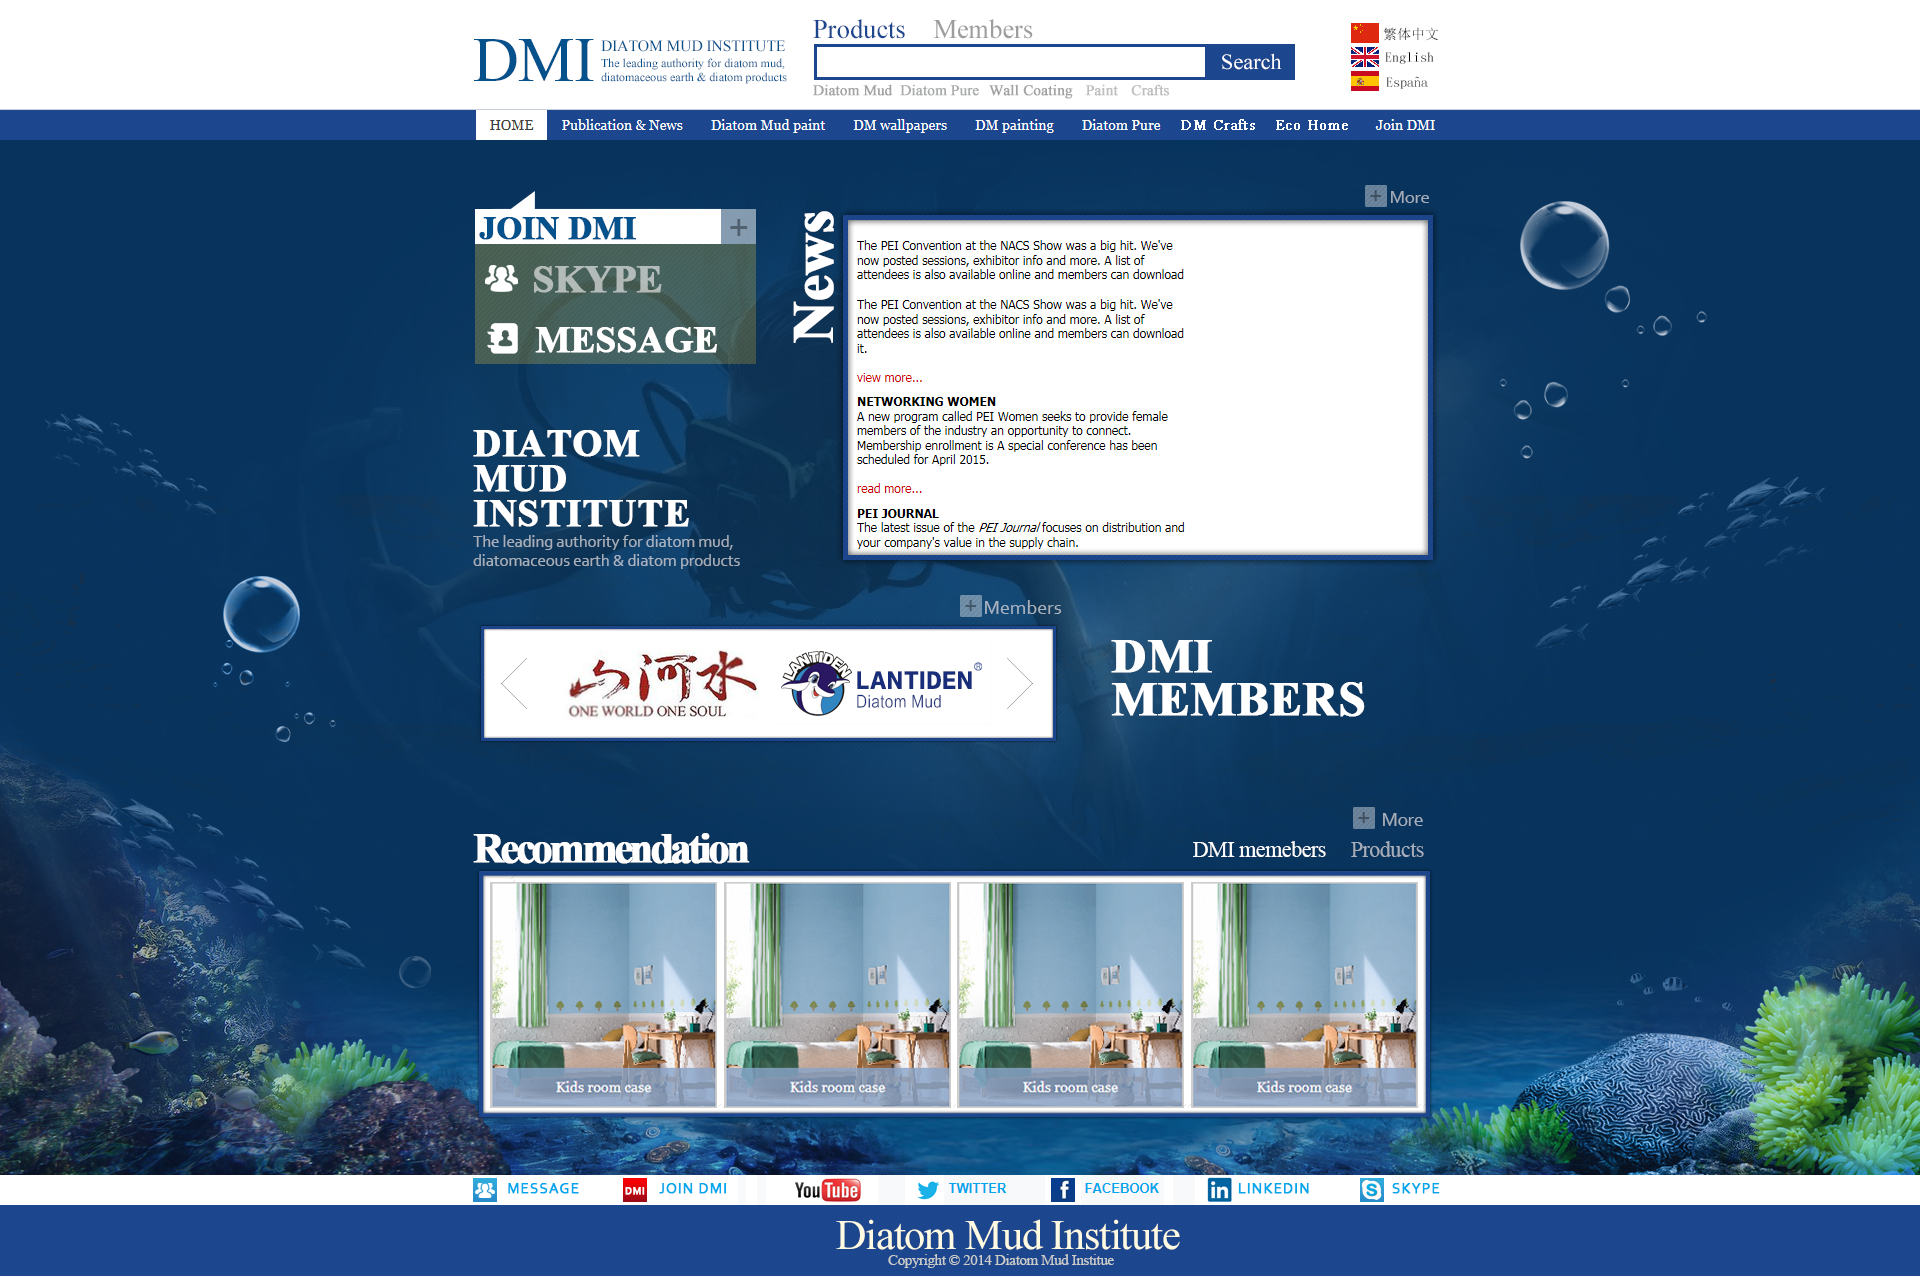
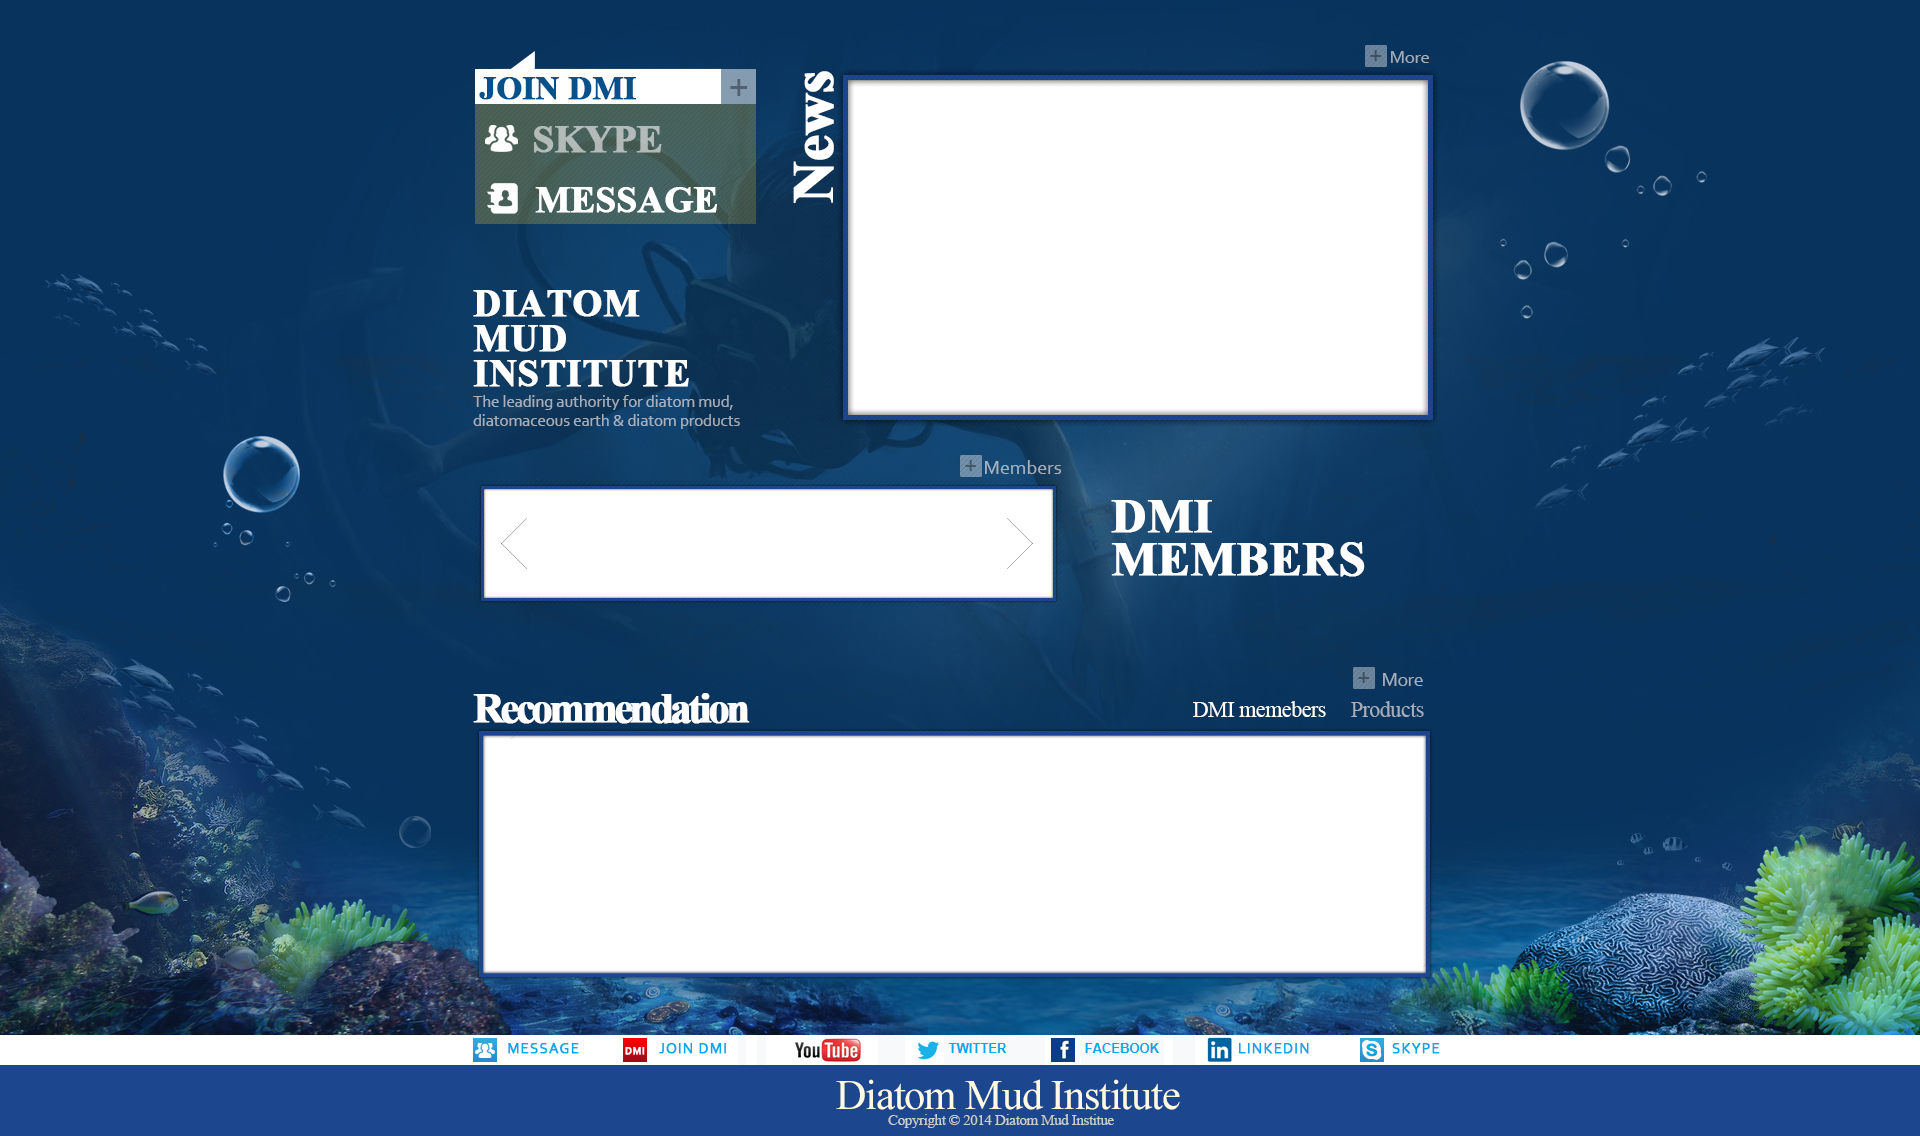
一部分更新

diff --git a/index.html b/index.html
@@ -1,0 +1,66 @@
+<!doctype html>
+<html lang="en">
+<head>
+    <meta charset="UTF-8">
+    <title>Document</title>
+    <style>
+        body {
+            margin:0;
+            padding:0;
+        }
+        #main-section {
+            width:100%;
+            height:1136px;
+            margin:0 auto;
+            background:url(./images/bg.png) center top;
+            position:relative;
+        }
+        .abs-unit {
+            position:absolute;
+            border:0;
+            background-color:brown;
+            cursor:pointer;
+        }
+    </style>
+</head>
+<body>
+    <!--Main section-->
+    <div id="main-section">
+        <!--Join DMI-->
+        <div class="abs-unit" style="left: 414px; top: 68px; width: 36px; height: 36px;"></div>
+        <!--SKYPE-->
+        <div class="abs-unit" style="left: 178px; top: 120px; width: 180px; height: 36px;"></div>
+        <!--MESSAGE-->
+        <div class="abs-unit" style="left: 178px; top: 182px; width: 233px; height: 33px;"></div>
+        <!--News section-->
+        <div class="abs-unit" style="left: 547px; top: 86px; width: 568px; height: 322px;"></div>
+        <!--News more-->
+        <div class="abs-unit" style="left: 1056px; top: 45px; width: 66px; height: 23px;"></div>
+        <!--Members-->
+        <div class="abs-unit" style="left: 230px; top: 493px; width: 460px; height: 100px;"></div>
+        <!--Members more-->
+        <div class="abs-unit" style="left: 652px; top: 455px; width: 105px; height: 23px;"></div>
+        <!--Recommendation-->
+        <div class="abs-unit" style="left: 179px; top: 739px; width: 937px; height: 231px;"></div>
+        <!--Recommendation tab-->
+        <div class="abs-unit" style="left: 455px; top: 700px; width: 668px; height: 26px;"></div>
+        <!--Recommendation more-->
+        <div class="abs-unit" style="left: 1043px; top: 665px; width: 76px; height: 26px;"></div>
+        <!--Link MESSAGE-->
+        <div class="abs-unit" style="left:10px;top:10px;"></div>
+        <!--Link JOIN DMI-->
+        <div class="abs-unit" style="left:10px;top:10px;"></div>
+        <!--Link Youtube-->
+        <div class="abs-unit" style="left:10px;top:10px;"></div>
+        <!--Link Twitter-->
+        <div class="abs-unit" style="left:10px;top:10px;"></div>
+        <!--Link Facebook-->
+        <div class="abs-unit" style="left:10px;top:10px;"></div>
+        <!--Link Linkedin-->
+        <div class="abs-unit" style="left:10px;top:10px;"></div>
+        <!--Link SKYPE-->
+        <div class="abs-unit" style="left:10px;top:10px;"></div>
+    </div>
+    <!--/Main section-->
+</body>
+</html>
